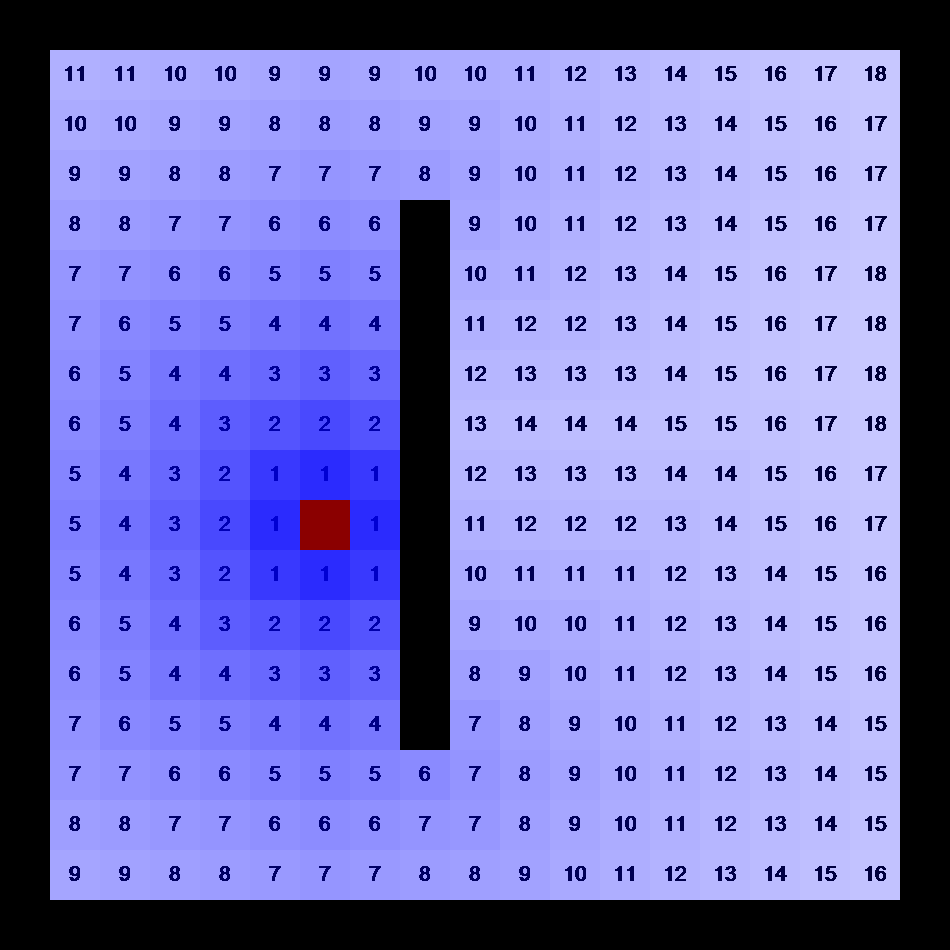
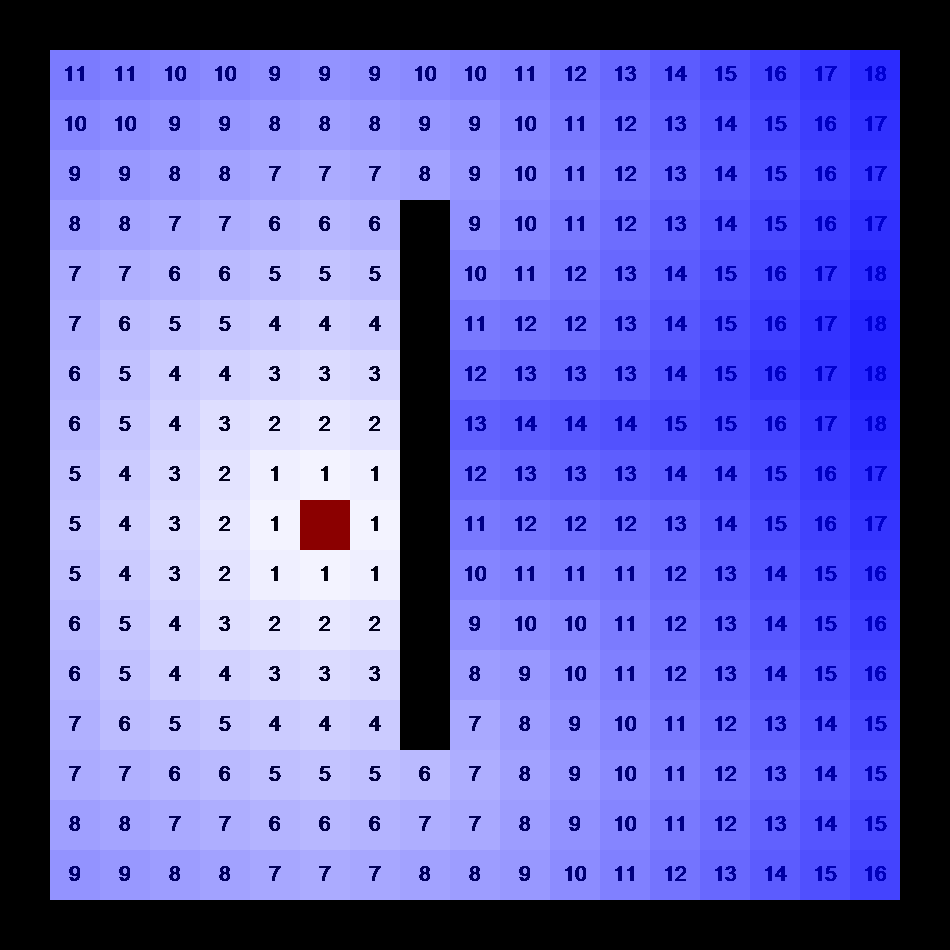
FixMd (#17)
* FixMd

* add libgdiplus

* compare bmp

* fix md

* test

* test

* test

* test

* test

* Fix brushfire test

diff --git a/test/NosCore.PathFinder.Tests/BrushFireTest.cs b/test/NosCore.PathFinder.Tests/BrushFireTest.cs
@@ -17,34 +17,28 @@ namespace NosCore.PathFinder.Tests
     [TestClass]
     public class BrushFireTest
     {
-        private TestMap _map;
-
-        [TestInitialize]
-        public void Setup()
+        private TestMap _map = new TestMap(new[]
         {
-            _map = new TestMap(new[]
-            {
-                new byte[] {1, 1, 1, 1, 1, 1, 1, 1, 1, 1, 1, 1, 1, 1, 1, 1, 1, 1, 1},
-                new byte[] {1, 0, 0, 0, 0, 0, 0, 0, 0, 0, 0, 0, 0, 0, 0, 0, 0, 0, 1},
-                new byte[] {1, 0, 0, 0, 0, 0, 0, 0, 0, 0, 0, 0, 0, 0, 0, 0, 0, 0, 1},
-                new byte[] {1, 0, 0, 0, 0, 0, 0, 0, 0, 0, 0, 0, 0, 0, 0, 0, 0, 0, 1},
-                new byte[] {1, 0, 0, 0, 0, 0, 0, 0, 1, 0, 0, 0, 0, 0, 0, 0, 0, 0, 1},
-                new byte[] {1, 0, 0, 0, 0, 0, 0, 0, 1, 0, 0, 0, 0, 0, 0, 0, 0, 0, 1},
-                new byte[] {1, 0, 0, 0, 0, 0, 0, 0, 1, 0, 0, 0, 0, 0, 0, 0, 0, 0, 1},
-                new byte[] {1, 0, 0, 0, 0, 0, 0, 0, 1, 0, 0, 0, 0, 0, 0, 0, 0, 0, 1},
-                new byte[] {1, 0, 0, 0, 0, 0, 0, 0, 1, 0, 0, 0, 0, 0, 0, 0, 0, 0, 1},
-                new byte[] {1, 0, 0, 0, 0, 0, 0, 0, 1, 0, 0, 0, 0, 0, 0, 0, 0, 0, 1},
-                new byte[] {1, 0, 0, 0, 0, 0, 0, 0, 1, 0, 0, 0, 0, 0, 0, 0, 0, 0, 1},
-                new byte[] {1, 0, 0, 0, 0, 0, 0, 0, 1, 0, 0, 0, 0, 0, 0, 0, 0, 0, 1},
-                new byte[] {1, 0, 0, 0, 0, 0, 0, 0, 1, 0, 0, 0, 0, 0, 0, 0, 0, 0, 1},
-                new byte[] {1, 0, 0, 0, 0, 0, 0, 0, 1, 0, 0, 0, 0, 0, 0, 0, 0, 0, 1},
-                new byte[] {1, 0, 0, 0, 0, 0, 0, 0, 1, 0, 0, 0, 0, 0, 0, 0, 0, 0, 1},
-                new byte[] {1, 0, 0, 0, 0, 0, 0, 0, 0, 0, 0, 0, 0, 0, 0, 0, 0, 0, 1},
-                new byte[] {1, 0, 0, 0, 0, 0, 0, 0, 0, 0, 0, 0, 0, 0, 0, 0, 0, 0, 1},
-                new byte[] {1, 0, 0, 0, 0, 0, 0, 0, 0, 0, 0, 0, 0, 0, 0, 0, 0, 0, 1},
-                new byte[] {1, 1, 1, 1, 1, 1, 1, 1, 1, 1, 1, 1, 1, 1, 1, 1, 1, 1, 1}
-            });
-        }
+            new byte[] {1, 1, 1, 1, 1, 1, 1, 1, 1, 1, 1, 1, 1, 1, 1, 1, 1, 1, 1},
+            new byte[] {1, 0, 0, 0, 0, 0, 0, 0, 0, 0, 0, 0, 0, 0, 0, 0, 0, 0, 1},
+            new byte[] {1, 0, 0, 0, 0, 0, 0, 0, 0, 0, 0, 0, 0, 0, 0, 0, 0, 0, 1},
+            new byte[] {1, 0, 0, 0, 0, 0, 0, 0, 0, 0, 0, 0, 0, 0, 0, 0, 0, 0, 1},
+            new byte[] {1, 0, 0, 0, 0, 0, 0, 0, 1, 0, 0, 0, 0, 0, 0, 0, 0, 0, 1},
+            new byte[] {1, 0, 0, 0, 0, 0, 0, 0, 1, 0, 0, 0, 0, 0, 0, 0, 0, 0, 1},
+            new byte[] {1, 0, 0, 0, 0, 0, 0, 0, 1, 0, 0, 0, 0, 0, 0, 0, 0, 0, 1},
+            new byte[] {1, 0, 0, 0, 0, 0, 0, 0, 1, 0, 0, 0, 0, 0, 0, 0, 0, 0, 1},
+            new byte[] {1, 0, 0, 0, 0, 0, 0, 0, 1, 0, 0, 0, 0, 0, 0, 0, 0, 0, 1},
+            new byte[] {1, 0, 0, 0, 0, 0, 0, 0, 1, 0, 0, 0, 0, 0, 0, 0, 0, 0, 1},
+            new byte[] {1, 0, 0, 0, 0, 0, 0, 0, 1, 0, 0, 0, 0, 0, 0, 0, 0, 0, 1},
+            new byte[] {1, 0, 0, 0, 0, 0, 0, 0, 1, 0, 0, 0, 0, 0, 0, 0, 0, 0, 1},
+            new byte[] {1, 0, 0, 0, 0, 0, 0, 0, 1, 0, 0, 0, 0, 0, 0, 0, 0, 0, 1},
+            new byte[] {1, 0, 0, 0, 0, 0, 0, 0, 1, 0, 0, 0, 0, 0, 0, 0, 0, 0, 1},
+            new byte[] {1, 0, 0, 0, 0, 0, 0, 0, 1, 0, 0, 0, 0, 0, 0, 0, 0, 0, 1},
+            new byte[] {1, 0, 0, 0, 0, 0, 0, 0, 0, 0, 0, 0, 0, 0, 0, 0, 0, 0, 1},
+            new byte[] {1, 0, 0, 0, 0, 0, 0, 0, 0, 0, 0, 0, 0, 0, 0, 0, 0, 0, 1},
+            new byte[] {1, 0, 0, 0, 0, 0, 0, 0, 0, 0, 0, 0, 0, 0, 0, 0, 0, 0, 1},
+            new byte[] {1, 1, 1, 1, 1, 1, 1, 1, 1, 1, 1, 1, 1, 1, 1, 1, 1, 1, 1}
+        });
 
 
         [TestMethod]
@@ -55,34 +49,42 @@ namespace NosCore.PathFinder.Tests
             var scale = 50;
             var bitmap = new Bitmap(_map.XLength * scale, _map.YLength * scale);
             using var graphics = Graphics.FromImage(bitmap);
+            var listPixel = new List<Color>();
             for (var y = 0; y < _map.YLength; y++)
             {
                 for (var x = 0; x < _map.XLength; x++)
                 {
-                    var color = (brushFire[x, y]?.F ?? 0) == 0 ? Color.FromArgb(255, 0, 0, 0) : Color.FromArgb((int)(255 / (brushFire[x, y].F / 5 + 1)), 0, 0, 255);
+                    var color = (brushFire[x, y]?.F ?? 0) == 0 ? Color.FromArgb(255, 0, 0, 0) : Color.FromArgb((int)((brushFire[x, y].F * 12 > 255 ? 255 : brushFire[x, y].F * 12)), 0, 0, 255);
                     if (x == characterPosition.X && y == characterPosition.Y)
                     {
                         color = Color.DarkRed;
                     }
                     var sf = new StringFormat
                     {
-                        LineAlignment = StringAlignment.Center, Alignment = StringAlignment.Center
+                        LineAlignment = StringAlignment.Center,
+                        Alignment = StringAlignment.Center
                     };
                     var rectangle = new Rectangle(x * scale, y * scale, scale, scale);
                     graphics.DrawString(brushFire[x, y]?.F.ToString("N0") ?? "∞", new Font("Arial", 16), Brushes.Black, rectangle, sf);
                     graphics.FillRectangle(new Pen(color).Brush, rectangle);
+                    listPixel.Add(color);
                 }
             }
 
             var path = Path.GetFullPath("../../../../../documentation/brushfire.png");
             bitmap.Save(path, ImageFormat.Png);
-            using FileStream stream = File.OpenRead(path);
+
             var builder = new StringBuilder();
             builder.AppendLine("# NosCore.Pathfinder's Documentation");
             builder.AppendLine("## Brushfire");
-            builder.AppendLine("Filename: brushfire.png");
-            builder.AppendLine($"SHA256: {string.Join("", SHA256.Create().ComputeHash(stream).Select(s => s.ToString("x2")))}");
-            builder.AppendLine("![brushfire](./documentation/brushfire.png)");
+            builder.AppendLine("- Filename: brushfire.png");
+            var pixels = string.Join("", listPixel.SelectMany(s => s.Name));
+
+            var checksum =
+                string.Join("", SHA256.Create()
+                    .ComputeHash(Encoding.UTF8.GetBytes(pixels)).Select(s => s.ToString("x2")));
+            builder.AppendLine($"- Checksum: {checksum}");
+            builder.AppendLine("![brushfire](./brushfire.png)");
             Approvals.Verify(WriterFactory.CreateTextWriter(builder.ToString(), "md"));
         }
     }

diff --git a/documentation/BrushFireTest.Test_BrushFire.approved.md b/documentation/BrushFireTest.Test_BrushFire.approved.md
@@ -1,5 +1,5 @@
 # NosCore.Pathfinder's Documentation
 ## Brushfire
-Filename: brushfire.png
-SHA256: b929716bd1195cc421556647bd79ba09ba2274cf5b5a31259c95f13de942b8e3
+- Filename: brushfire.png
+- Checksum: 3adf99d7ec6e150701174a3d60a02d33a575a6c27be610e0ef17a66790b0cbc6
 ![brushfire](./brushfire.png)
